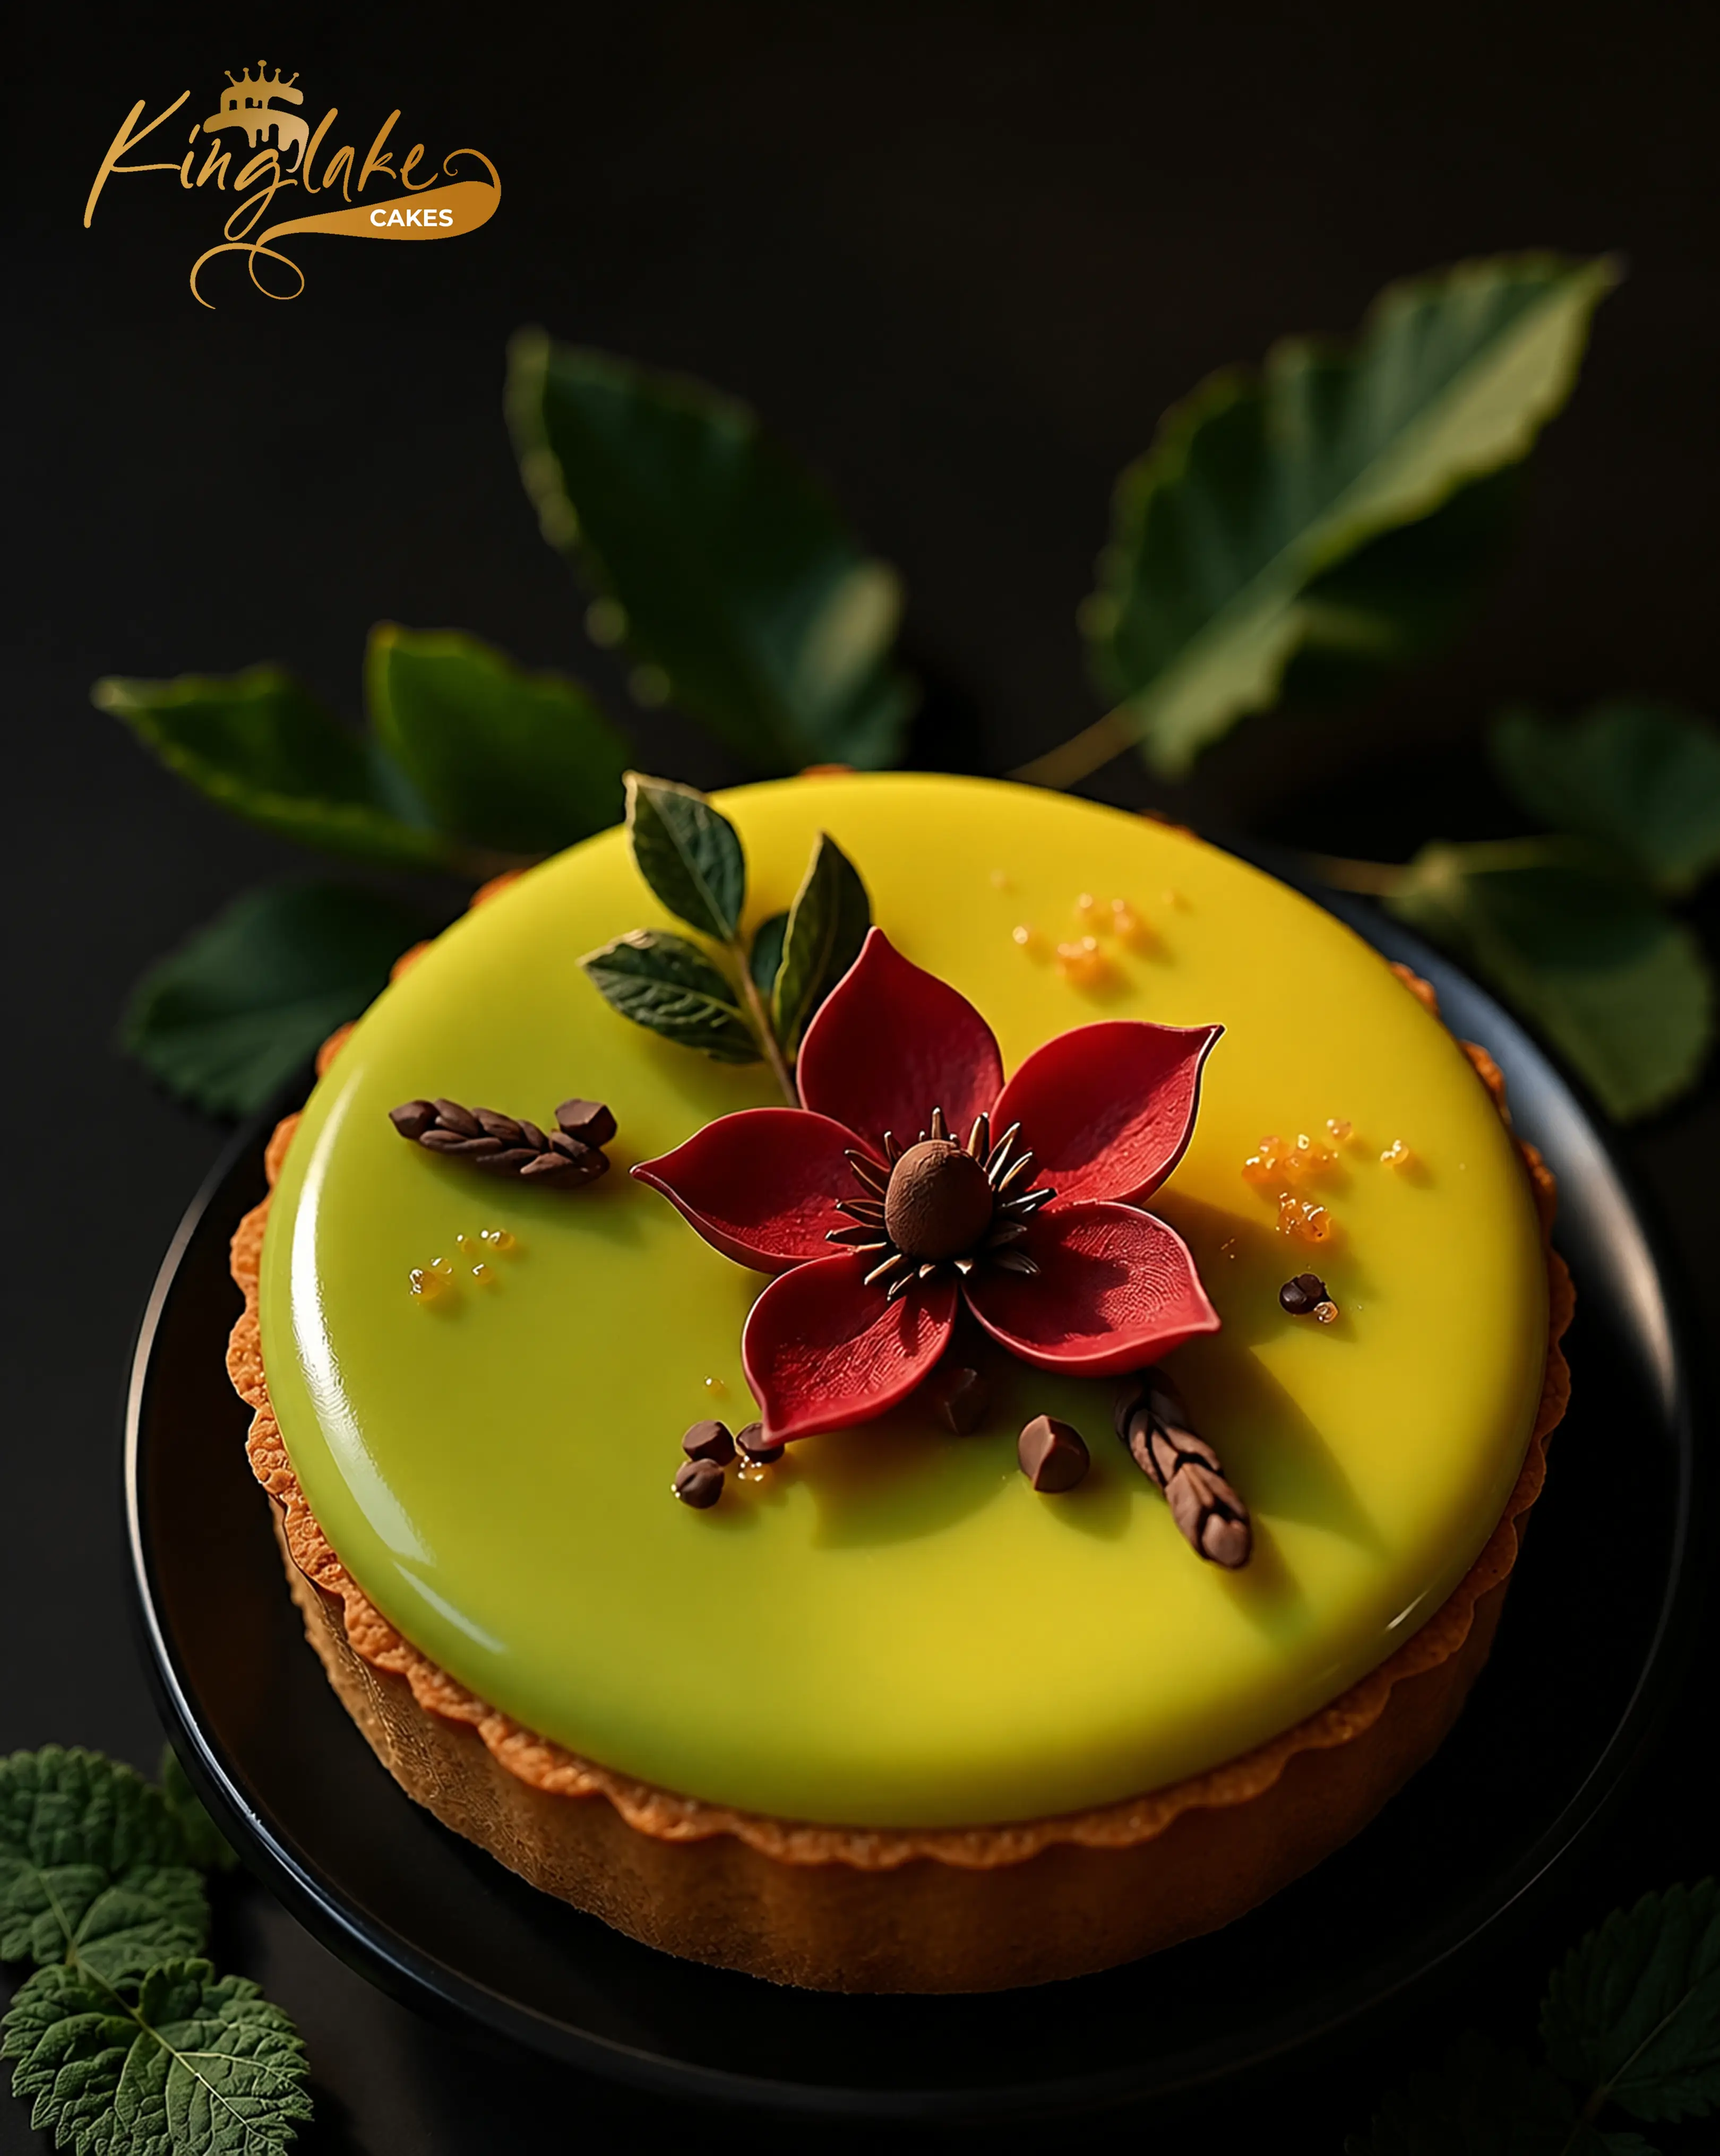
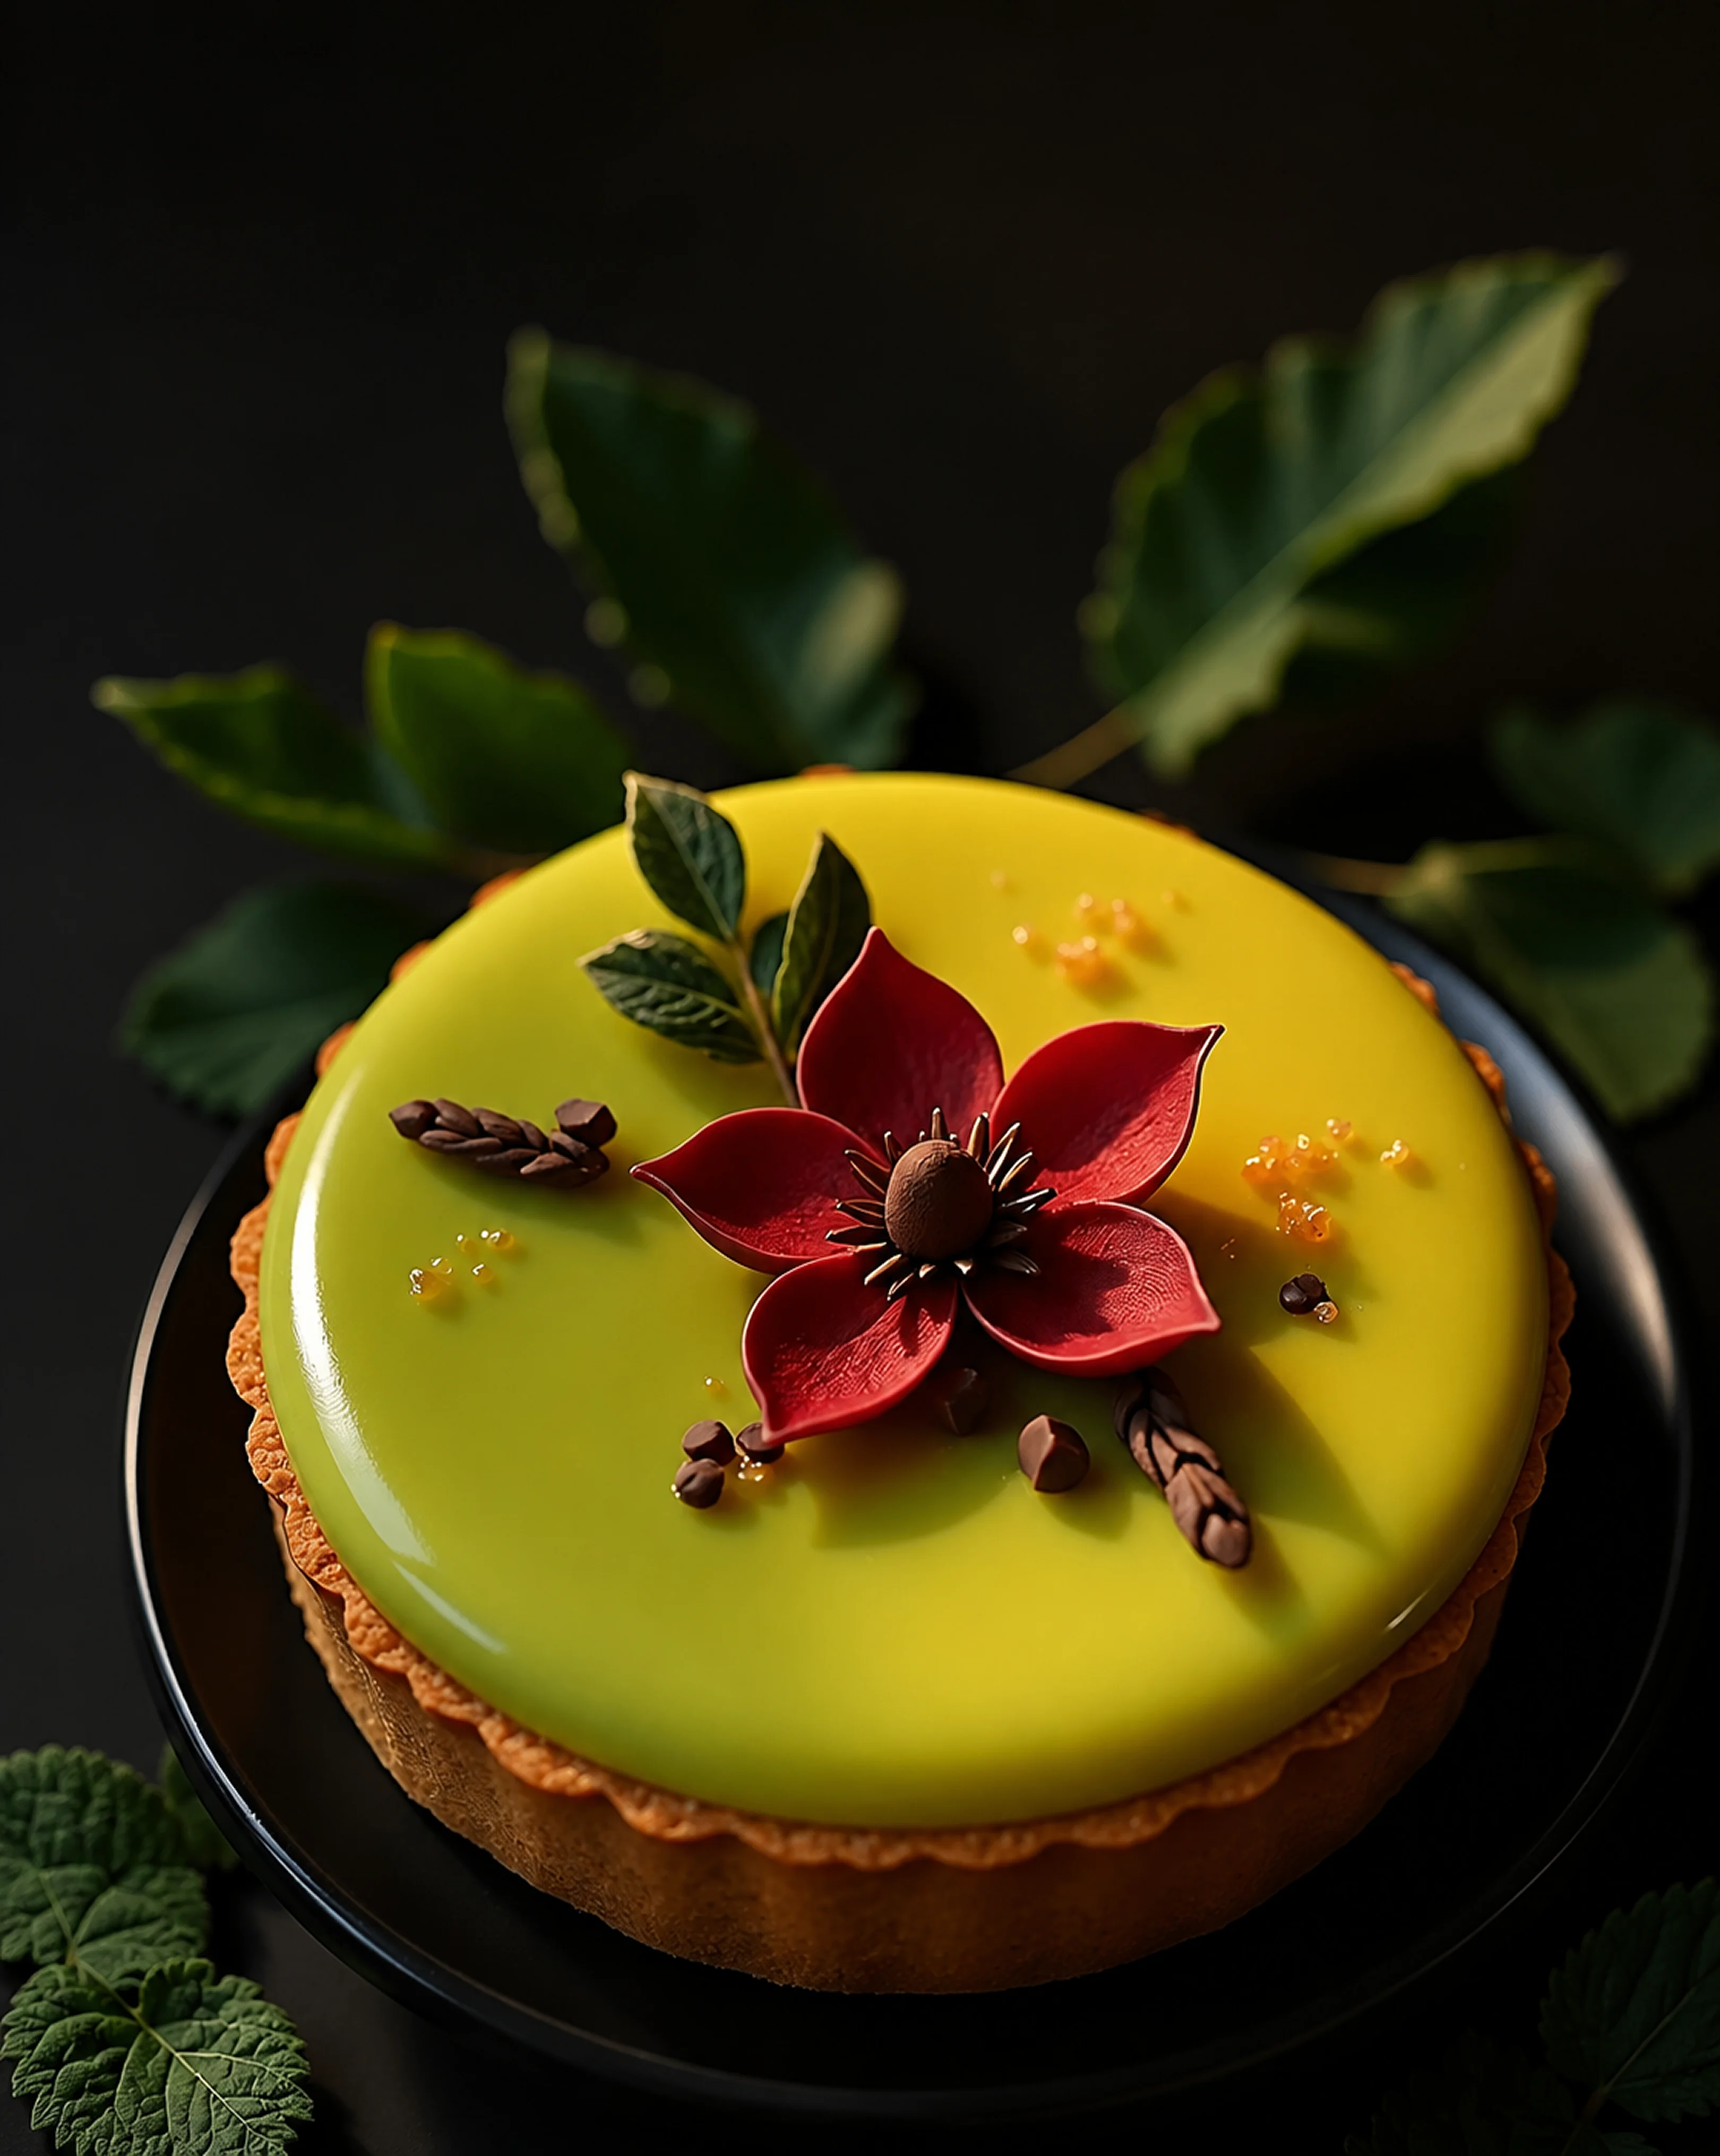
feat: implement contact form submission with validation and status messages

Changed region(s): [[0.0312, 0.031, 0.3117, 0.1241]]

diff --git a/src/components/contact.tsx b/src/components/contact.tsx
@@ -1,3 +1,7 @@
+import { useState } from 'react'
+
+const ENQUIRY_ENDPOINT = '/send-enquiry.php'
+
 function MailIcon() {
   return (
     <svg viewBox="0 0 24 24" aria-hidden="true">
@@ -26,9 +30,37 @@ function SocialIcon() {
 }
 
 export default function Contact() {
-  const handleSubmit = (event: React.FormEvent<HTMLFormElement>) => {
+  const [submitStatus, setSubmitStatus] = useState<'idle' | 'sending' | 'success' | 'error'>('idle')
+  const [submitMessage, setSubmitMessage] = useState('')
+
+  const handleSubmit = async (event: React.FormEvent<HTMLFormElement>) => {
     event.preventDefault()
-    window.alert('Thank you. Your appointment request has been noted.')
+    const form = event.currentTarget
+    const formData = new FormData(form)
+
+    formData.append('source_url', window.location.href)
+
+    setSubmitStatus('sending')
+    setSubmitMessage('')
+
+    try {
+      const response = await fetch(ENQUIRY_ENDPOINT, {
+        method: 'POST',
+        body: formData,
+      })
+      const result = await response.json()
+
+      if (!response.ok || !result.success) {
+        throw new Error(result.message || 'Submission failed')
+      }
+
+      setSubmitStatus('success')
+      setSubmitMessage('Thank you. Your appointment request has been sent.')
+      form.reset()
+    } catch {
+      setSubmitStatus('error')
+      setSubmitMessage('We could not send your enquiry. Please try again.')
+    }
   }
 
   return (
@@ -55,7 +87,7 @@ export default function Contact() {
                 </div>
                 <div>
                   <strong>Email</strong>
-                  <a href="mailto:[email redacted]">[email redacted]</a>
+                  <a href="mailto:[email redacted]">[email redacted]</a>
                 </div>
               </div>
               <div className="contact-detail">
@@ -64,7 +96,7 @@ export default function Contact() {
                 </div>
                 <div>
                   <strong>Phone / WhatsApp</strong>
-                  <span className="detail-note">Number to be added shortly</span>
+                  <span className="detail-note">03 4333 4200</span>
                 </div>
               </div>
               <div className="contact-detail">
@@ -92,28 +124,29 @@ export default function Contact() {
           <div className="contact-form">
             <p className="section-label">Enquiry Form</p>
             <form onSubmit={handleSubmit}>
+              <input className="form-honeypot" type="checkbox" name="botcheck" tabIndex={-1} autoComplete="off" />
               <div className="form-row">
                 <div className="form-group">
                   <label htmlFor="first-name">First Name</label>
-                  <input id="first-name" type="text" placeholder="Your name" required />
+                  <input id="first-name" name="first_name" type="text" placeholder="Your name" required />
                 </div>
                 <div className="form-group">
                   <label htmlFor="last-name">Last Name</label>
-                  <input id="last-name" type="text" placeholder="Family name" />
+                  <input id="last-name" name="last_name" type="text" placeholder="Family name" />
                 </div>
               </div>
               <div className="form-group">
                 <label htmlFor="email">Email Address</label>
-                <input id="email" type="email" placeholder="[email redacted]" required />
+                <input id="email" name="email" type="email" placeholder="[email redacted]" required />
               </div>
               <div className="form-group">
                 <label htmlFor="phone">Phone / WhatsApp</label>
-                <input id="phone" type="tel" placeholder="+61 or your country code" />
+                <input id="phone" name="phone" type="tel" placeholder="+61 or your country code" />
               </div>
               <div className="form-row">
                 <div className="form-group">
                   <label htmlFor="occasion">Occasion Type</label>
-                  <select id="occasion" defaultValue="">
+                  <select id="occasion" name="occasion" defaultValue="">
                     <option value="">Select...</option>
                     <option>Wedding</option>
                     <option>Birthday</option>
@@ -125,16 +158,25 @@ export default function Contact() {
                 </div>
                 <div className="form-group">
                   <label htmlFor="event-date">Event Date</label>
-                  <input id="event-date" type="date" />
+                  <input id="event-date" name="event_date" type="date" />
                 </div>
               </div>
               <div className="form-group">
                 <label htmlFor="vision">Your Vision</label>
-                <textarea id="vision" placeholder="Tell us about your dream cake - style, theme, guest count, inspiration..." />
+                <textarea
+                  id="vision"
+                  name="message"
+                  placeholder="Tell us about your dream cake - style, theme, guest count, inspiration..."
+                />
               </div>
-              <button type="submit" className="form-submit">
-                Request Appointment
+              <button type="submit" className="form-submit" disabled={submitStatus === 'sending'}>
+                {submitStatus === 'sending' ? 'Sending Enquiry' : 'Request Appointment'}
               </button>
+              {submitMessage ? (
+                <p className={`form-status ${submitStatus === 'error' ? 'is-error' : 'is-success'}`} role="status">
+                  {submitMessage}
+                </p>
+              ) : null}
             </form>
           </div>
         </div>

diff --git a/src/App.css b/src/App.css
@@ -951,6 +951,10 @@ textarea {
   resize: vertical;
 }
 
+.form-honeypot {
+  display: none;
+}
+
 .form-submit {
   background: var(--charcoal);
   border: 1px solid var(--charcoal);
@@ -970,6 +974,33 @@ textarea {
   background: var(--gold);
   border-color: var(--gold);
   color: var(--dark);
+}
+
+.form-submit:disabled {
+  cursor: wait;
+  opacity: 0.68;
+}
+
+.form-submit:disabled:hover,
+.form-submit:disabled:focus-visible {
+  background: var(--charcoal);
+  border-color: var(--charcoal);
+  color: var(--warm-white);
+}
+
+.form-status {
+  color: var(--text-muted);
+  font-size: 0.78rem;
+  line-height: 1.6;
+  margin: 16px 0 0;
+}
+
+.form-status.is-success {
+  color: #42633f;
+}
+
+.form-status.is-error {
+  color: #9f3f36;
 }
 
 .site-footer {

diff --git a/src/components/gallery.tsx b/src/components/gallery.tsx
@@ -9,13 +9,13 @@ import cake6 from '../assets/portfolio/CAKE IMG 6.webp'
 import cake7 from '../assets/portfolio/CAKE IMG 7.webp'
 
 const galleryItems = [
-  { caption: 'Imperial Gold Wedding', className: 'tall', image: cake1 },
-  { caption: 'Gothic Noir', image: cake2 },
-  { caption: 'Gravity Defying', image: cake3 },
-  { caption: 'Desert Rose', className: 'wide', image: cake4 },
-  { caption: 'Black Velvet & Red Rose', image: cake5 },
+  { caption: 'Black Red Roses', className: 'tall', image: cake1 },
+  { caption: 'Baroque-8-tier Wedding cake', image: cake2 },
+  { caption: 'Black Red Roses', image: cake3 },
+  { caption: 'Gothic', className: 'wide', image: cake4 },
+  { caption: 'Ivory', image: cake5 },
   { caption: 'Rose Atelier', image: cake6 },
-  { caption: 'Desert Bloom', image: cake7 },
+  { caption: 'Mango Chocolate', image: cake7 },
 ]
 
 export default function Gallery() {
@@ -90,9 +90,7 @@ export default function Gallery() {
               className={`gallery-item ${item.className ?? ''}`}
               key={item.caption}
               onClick={(event) => openPreview(item, event.currentTarget)}
-              onFocus={(event) => openPreview(item, event.currentTarget)}
               onKeyDown={(event) => handlePreviewKeyDown(event, item)}
-              onMouseEnter={(event) => openPreview(item, event.currentTarget)}
               role="button"
               tabIndex="0"
             >
@@ -107,9 +105,10 @@ export default function Gallery() {
       {activeItem && (
         <div
           className="gallery-hover-preview"
-          onMouseLeave={closePreview}
+          onClick={closePreview}
           style={activeItem.style}
           aria-label={`${activeItem.caption} full image preview`}
+          role="dialog"
         >
           <img src={activeItem.image} alt={activeItem.caption} />
           <p>{activeItem.caption}</p>

diff --git a/src/components/about.tsx b/src/components/about.tsx
@@ -30,7 +30,7 @@ export default function About() {
               "Every cake is a collaboration between vision and artistry &mdash; a moment made eternal."
             </blockquote>
             <p className="about-body">
-              Kinglake Cakes is not a bakery. It is an atelier &mdash; a private studio where each creation is conceived,
+              Kinglake Cakes is not a bakery. It is an atelier &mdash; A private boutique. Each creation is conceived,
               designed, and hand-crafted exclusively for you. We work only by appointment, ensuring that every commission
               receives our full and undivided attention.
             </p>

diff --git a/src/components/footer.tsx b/src/components/footer.tsx
@@ -54,7 +54,7 @@ export default function Footer() {
             <a className="footer-logo" href="#home" aria-label="Kinglake Cakes home">
               <img src={logo} alt="Kinglake Cakes" />
             </a>
-            <p>Bespoke luxury cakes crafted by appointment only. Each creation is unique, handcrafted, and designed solely for you.</p>
+            <p>Bespoke luxury cakes meticulously fashioned by appointment only. Each creation is unique, handcrafted, and designed solely for you.</p>
           </div>
           {Object.entries(footerLinks).map(([title, links]) => (
             <div className="footer-col" key={title}>

diff --git a/src/components/specialties.tsx b/src/components/specialties.tsx
@@ -48,7 +48,7 @@ export default function Specialties() {
             <img src={whatWeCreateImage} alt="Kinglake Cakes specialty creation" />
             <div className="specialties-image-badge">
               <p className="badge-label">Our Standard</p>
-              <p className="badge-text">"Nothing less than extraordinary"</p>
+              <p className="badge-text">"It is anything but ordinary"</p>
             </div>
           </div>
         </div>

diff --git a/public/send-enquiry.php b/public/send-enquiry.php
@@ -1,0 +1,92 @@
+<?php
+declare(strict_types=1);
+
+header('Content-Type: application/json; charset=UTF-8');
+
+if ($_SERVER['REQUEST_METHOD'] !== 'POST') {
+    http_response_code(405);
+    echo json_encode(['success' => false, 'message' => 'Method not allowed']);
+    exit;
+}
+
+if (!empty($_POST['botcheck'])) {
+    echo json_encode(['success' => true, 'message' => 'Request accepted']);
+    exit;
+}
+
+function form_value(string $key): string
+{
+    return trim((string) ($_POST[$key] ?? ''));
+}
+
+function single_line(string $value): string
+{
+    return preg_replace('/[\r\n]+/', ' ', trim(strip_tags($value))) ?? '';
+}
+
+function message_text(string $value): string
+{
+    $value = str_replace(["\r\n", "\r"], "\n", $value);
+    return trim(strip_tags($value));
+}
+
+$firstName = single_line(form_value('first_name'));
+$lastName = single_line(form_value('last_name'));
+$email = filter_var(form_value('email'), FILTER_SANITIZE_EMAIL);
+$phone = single_line(form_value('phone'));
+$occasion = single_line(form_value('occasion'));
+$eventDate = single_line(form_value('event_date'));
+$message = message_text(form_value('message'));
+$sourceUrl = single_line(form_value('source_url'));
+
+if ($firstName === '' || !filter_var($email, FILTER_VALIDATE_EMAIL)) {
+    http_response_code(422);
+    echo json_encode(['success' => false, 'message' => 'Please provide a valid name and email address']);
+    exit;
+}
+
+$to = '[email redacted]';
+$from = '[email redacted]';
+$fullName = trim($firstName . ' ' . $lastName);
+$replyName = $fullName !== '' ? $fullName : 'Website Enquiry';
+$safeReplyName = addcslashes($replyName, "\\\"");
+$replyTo = '"' . $safeReplyName . '" <' . $email . '>';
+$subject = 'New Kinglake Cakes Enquiry';
+
+$body = implode("\n", [
+    'New enquiry from kinglakecakes.com',
+    '',
+    'Name: ' . $fullName,
+    'Email: ' . $email,
+    'Phone / WhatsApp: ' . ($phone !== '' ? $phone : 'Not provided'),
+    'Occasion: ' . ($occasion !== '' ? $occasion : 'Not selected'),
+    'Event Date: ' . ($eventDate !== '' ? $eventDate : 'Not provided'),
+    '',
+    'Your Vision:',
+    $message !== '' ? $message : 'Not provided',
+    '',
+    'Source: ' . ($sourceUrl !== '' ? $sourceUrl : 'https://kinglakecakes.com/'),
+    'IP Address: ' . ($_SERVER['REMOTE_ADDR'] ?? 'Unknown'),
+]);
+
+$headers = implode("\r\n", [
+    'MIME-Version: 1.0',
+    'Content-Type: text/plain; charset=UTF-8',
+    'From: Kinglake Cakes Website <' . $from . '>',
+    'Reply-To: ' . $replyTo,
+    'X-Mailer: PHP/' . phpversion(),
+]);
+
+$sent = @mail($to, $subject, $body, $headers, '-f ' . $from);
+
+if (!$sent) {
+    $sent = @mail($to, $subject, $body, $headers);
+}
+
+if (!$sent) {
+    http_response_code(500);
+    echo json_encode(['success' => false, 'message' => 'Mail server could not send the enquiry']);
+    exit;
+}
+
+echo json_encode(['success' => true, 'message' => 'Enquiry sent']);